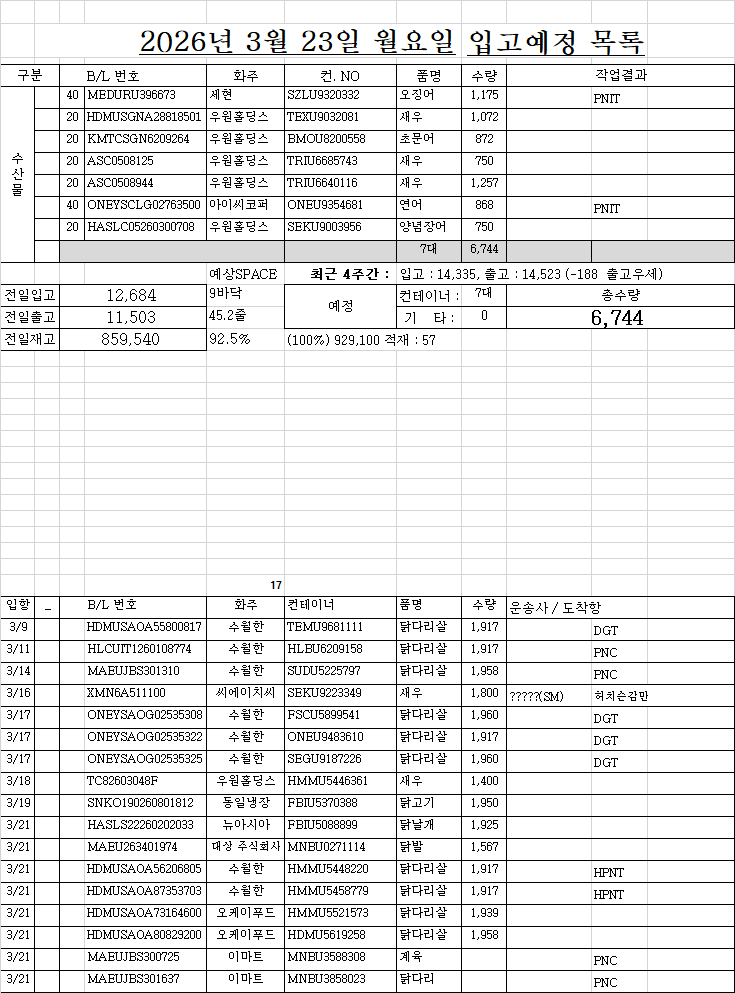
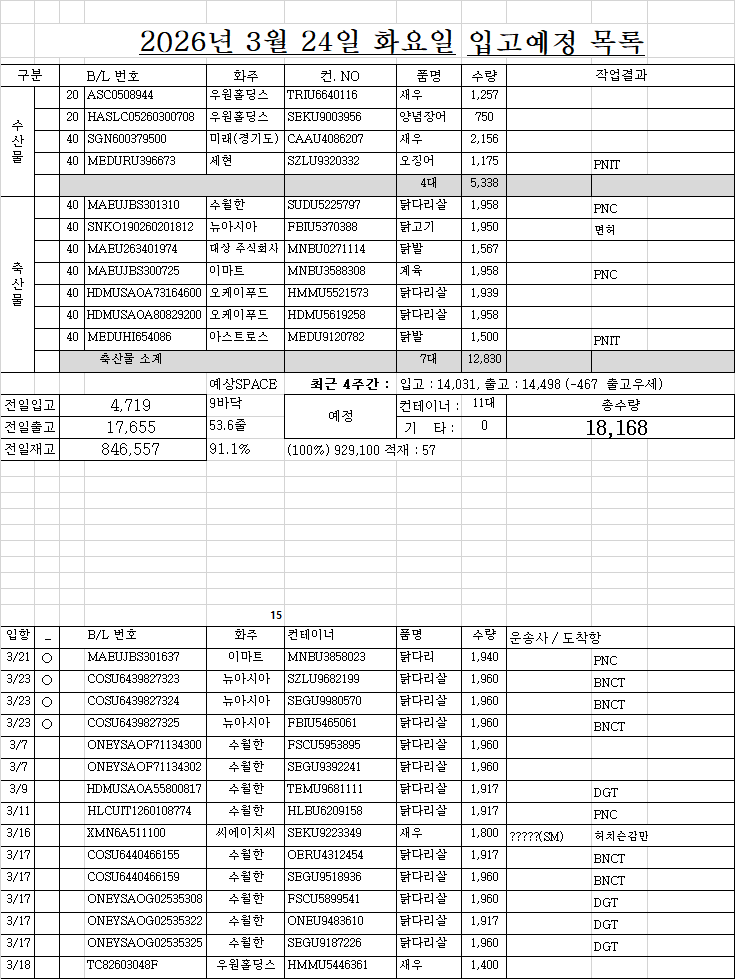
SDFSDF

Changed region(s): [[0.0, 0.0306, 1.0, 0.5209], [0.0, 0.5516, 1.0, 1.0], [0.0, 0.1532, 0.0299, 0.2145]]

diff --git a/list.html b/list.html
@@ -160,45 +160,45 @@
 </div>
 <!-- ★★★★★★ 따로 빼 놔야한다. 복붙하면 첫칸 비어도 되는데, 여기서는 첫칸비우면 당겨진다. -->
 <!-- ★ 엑셀범위를 브라우저 textarea에 붙여넣으면 첫셀 비어도 제대로 되는데... HTML에 붙여놓은 자료는 처음셀이 비어있으면 당겨짐 -->
-<div class="d-none" id="원본text_리스트1부터w요약열까지">작성	면허	B/LNO.	화주	컨테이너NO.	품명	수량	반입NO.	입항일	구분	도착일	도착시간	구분	운.도VBA	03/20 금 16:21	화찰BL	화찰 선명	화물관리번호	화찰수량	화찰중량	화찰입항	리스트시트기준열	
-1		MEDURU396673	세현	SZLU9320332	오징어	1,175 	PNIT	3/19	1				PNIT			ONE SERENITY					03/20 금 16:21	
-1	○	HDMUSGNA28818501	우원홀딩스	TEXU9032081	새우	1,072 		3/19	1			20 			HDMUSGNA28818501	HMM HERITAGE	26HDMUA156I-0144-	1,072 	6,217.60 	2026.03.19	조회정보	3줄
-1	○	KMTCSGN6209264	우원홀딩스	BMOU8200558	초문어	872 		3/19	1			20 			KMTCSGN6209264	NYK ISABEL	26ONEY0313I-7121-	872 	6,947.96 	2026.03.19	적재	57
-1		ASC0508125	우원홀딩스	TRIU6685743	새우	750 		3/20	1			20 									4,617 	3줄
-1		ASC0508944	우원홀딩스	TRIU6640116	새우	1,257 		3/20	1			20 									6,156 	4줄
-1	○	ONEYSCLG02763500	아이씨코퍼	ONEU9354681	연어	868 	PNIT	3/21	1				PNIT		ONEYSCLG02763500	MANZANILLO EXPRESS	26HLCU9310I-5013-	868 	23,568.77 	2026.03.21	7,695 	5줄
-1		HASLC05260300708	우원홀딩스	SEKU9003956	양념장어	750 		3/22	1			20 									9,234 	6줄
-		HDMUSAOA55800817	수월한	TEMU9681111	닭다리살	1,917 	DGT	3/9	2				DGT	면허?, CY : 동원글로벌터미널부산(주), 컨진행 : 반입완료, 선사 : 오션네트워크익스프레스코리아(주)	HDMUSAOA55800817	REN JIAN 20	26ONEY0299I-7028-	1,917 	23,962.50 	2026.03.09	구분	대수
-		HLCUIT1260108774	수월한	HLBU6209158	닭다리살	1,917 	PNC	3/11	2				PNC	면허?, CY : 부산신항만(주)자유무역지역, 컨진행 : 반입완료, 선사 : 한국머스크(주)	HLCUIT1260108774	UTE	26MAEU0149I-7020-	1,917 	23,962.50 	2026.03.11	출고/입고 4주간	19
-		MAEUJBS301310	수월한	SUDU5225797	닭다리살	1,958 	PNC	3/14	2				PNC	면허?, CY : 부산신항만(주)자유무역지역, 컨진행 : 반입완료, 선사 : 한국머스크(주)	MAEUJBS301310	REN JIAN 15	26MAEU0158I-1251-	1,958 	24,450.72 	2026.03.14	1일 7/5	5일줄
-		XMN6A511100	씨에이치씨	SEKU9223349	새우	1,800 	?????(SM).허치슨감만	3/16	1	SM			?????(SM).허치슨감만			PEGASUS DREAM					14,855 	48.3
-		ONEYSAOG02535308	수월한	FSCU5899541	닭다리살	1,960 	DGT	3/17	2				DGT	면허?, CY : 동원글로벌터미널부산(주), 컨진행 : 반입완료, 선사 : 오션네트워크익스프레스코리아(주)	ONEYSAOG02535308	MOL EARNEST	26ONEY0337I-5114-	1,960 	24,500.00 	2026.03.17	14,476 	47
-		ONEYSAOG02535322	수월한	ONEU9483610	닭다리살	1,917 	DGT	3/17	2				DGT	면허?, CY : 동원글로벌터미널부산(주), 컨진행 : 반입완료, 선사 : 오션네트워크익스프레스코리아(주)	ONEYSAOG02535322	MOL EARNEST	26ONEY0337I-5128-	1,917 	23,962.50 	2026.03.17	내국제외	
-		ONEYSAOG02535325	수월한	SEGU9187226	닭다리살	1,960 	DGT	3/17	2				DGT	면허?, CY : 동원글로벌터미널부산(주), 컨진행 : 반입완료, 선사 : 오션네트워크익스프레스코리아(주)	ONEYSAOG02535325	MOL EARNEST	26ONEY0337I-5131-	1,960 	24,500.00 	2026.03.17	구분	대수
-		TC82603048F	우원홀딩스	HMMU5446361	새우	1,400 		3/18	1			40 									수산	31
-		SNKO190260801812	동일냉장	FBIU5370388	닭고기	1,950 		3/19	2												축산	2/11
-		HASLS22260202033	뉴아시아	FBIU5088899	닭날개	1,925 		3/21	2												합계	73 
-		MAEU263401974	대상 주식회사	MNBU0271114	닭발	1,567 		3/21	2												7,695 	5줄
-		HDMUSAOA56206805	수월한	HMMU5448220	닭다리살	1,917 	HPNT	3/21	2				HPNT			HMM CLOVER					화주별 요약	
-		HDMUSAOA87353703	수월한	HMMU5458779	닭다리살	1,917 	HPNT	3/21	2				HPNT			HMM CLOVER					화주	대수
-		HDMUSAOA73164600	오케이푸드	HMMU5521573	닭다리살	1,939 		3/21	2												수월한	17
-		HDMUSAOA80829200	오케이푸드	HDMU5619258	닭다리살	1,958 		3/21	2												세현	9
-		MAEUJBS300725	이마트	MNBU3588308	계육		PNC	3/21	2				PNC			GRASMERE MAERSK					우원홀딩스	8
-		MAEUJBS301637	이마트	MNBU3858023	닭다리		PNC	3/21	2				PNC			GRASMERE MAERSK					삼영수산	8
-		MEDUHI654086	아스트로스	MEDU9120782	닭발	1,500 	PNIT	3/22	2				PNIT			SANTA LORETTA					이마트	7
-		HDMUSAOA60395300	이마트	HMMU5486282	닭다리		DGT	3/22	2				DGT			HYUNDAI INTEGRAL(SX2)					뉴아시아	6
-		HDMUSAOA62547000	이마트	HMMU5515020	닭다리		DGT	3/22	2				DGT			HYUNDAI INTEGRAL(SX2)					아스트로스	5
-		COSU6439827323	뉴아시아	SZLU9682199	닭다리살	1,960 	BNCT	3/23	2				BNCT			COSCO PRIDE					씨케이글로벌	4
-		COSU6439827324	뉴아시아	SEGU9980570	닭다리살	1,960 	BNCT	3/23	2				BNCT			COSCO PRIDE					오케이푸드	2
-		COSU6439827325	뉴아시아	FBIU5465061	닭다리살	1,960 	BNCT	3/23	2				BNCT			COSCO PRIDE					마이푸드	2
-		COSU6439835643	마이푸드	FBIU5015151	닭다리살	1,960 	BNCT	3/23	2				BNCT			COSCO PRIDE					아이씨코퍼	1
-		COSU6439835646	마이푸드	OERU4289713	닭다리살	1,960 	BNCT	3/23	2				BNCT			COSCO PRIDE					씨에이치씨	1
-		COSU6439835640	수월한	TEMU9356220	닭다리살	1,960 	BNCT	3/23	2				BNCT			COSCO PRIDE					동일냉장	1
-		COSU6440466155	수월한	OERU4312454	닭다리살	1,917 	BNCT	3/23	2				BNCT			COSCO PRIDE					대상 주식회사	1
-		COSU6440466159	수월한	SEGU9518936	닭다리살	1,960 	BNCT	3/23	2				BNCT			COSCO PRIDE					참트레이딩	1
-		COSU6442191940	수월한	FBIU5509771	닭다리살	1,960 	BNCT	3/23	2				BNCT			COSCO PRIDE					합계	73
-		KMTCSUB2471360	씨케이글로벌	BMOU9233556	새우	1,800 		3/23	1													
-		KMTCSUB2472378	씨케이글로벌	SEGU9327441	새우	1,800 		3/23	1													
+<div class="d-none" id="원본text_리스트1부터w요약열까지">작성	면허	B/LNO.	화주	컨테이너NO.	품명	수량	반입NO.	입항일	구분	도착일	도착시간	구분	운.도VBA	03/23 월 16:34	화찰BL	화찰 선명	화물관리번호	화찰수량	화찰중량	화찰입항	리스트시트기준열	
+1	○	ASC0508944	우원홀딩스	TRIU6640116	새우	1,257 		3/21	1			20 		(주)에스에스물류, CY : 동원글로벌터미널부산(주), 컨진행 : 보세운송 신고 수리, 선사 : 피아이엘코리아(주)	ASC0508944	KOTA NASRAT	26PILK0017I-2840-	1,257 	5,912.40 	2026.03.21	03/23 월 16:34	
+1		HASLC05260300708	우원홀딩스	SEKU9003956	양념장어	750 		3/22	1			20 		면허?, CY : 신감만 한국허치슨(주) 컨테이너 보세창고, 컨진행 : 반입완료, 선사 : 천경해운(주)	HASLC05260300708	SKY ORION	26CKCO0310I-1007-	750 	8,110.00 	2026.03.22	조회정보	3줄
+1		SGN600379500	미래(경기도)	CAAU4086207	새우	2,156 		3/23	1					면허?, CY : 신선대감만터미널(주) 신선대CY, 컨진행 : 하선신고 수리완료, 선사 : 피아이엘코리아(주)	SGN600379500	KOTA GAYA	26PILK0019I-0036-	2,156 	16,816.80 	2026.03.23	적재	57
+1		MEDURU396673	세현	SZLU9320332	오징어	1,175 	PNIT	3/23	1				PNIT	면허?, CY : 부산신항국제터미널(주), 컨진행 : 입항적재화물목록 운항정보 정정, 선사 : 오션네트워크익스프레스코리아(주)	MEDURU396673	ONE SERENITY	26ONEY0351I-6011-	1,175 	24,790.00 	2026.03.23	4,617 	3줄
+1	○	MAEUJBS301310	수월한	SUDU5225797	닭다리살	1,958 	PNC	3/14	2				PNC	면허?, CY : 부산신항만(주)자유무역지역, 컨진행 : 반입완료, 선사 : 한국머스크(주)	MAEUJBS301310	REN JIAN 15	26MAEU0158I-1251-	1,958 	24,450.72 	2026.03.14	6,156 	4줄
+1	○	SNKO190260201812	동일냉장	FBIU5370388	닭고기	1,950 	면허	3/20	2						SNKO190260201812	KMTC TAIPEIS	26KMTC0959I-6043-	1,950 	24,560.25 	2026.03.20	7,695 	5줄
+1	○	MAEU263401974	대상 주식회사	MNBU0271114	닭발	1,567 		3/21	2	3/23	07:28			(주)골든로지텍, CY : 부산신항만(주)자유무역지역, 컨진행 : 반출완료, 선사 : 한국머스크(주)	MAEU263401974	GRASMERE MAERSK	26MAEU0173I-1048-	1,567 	24,304.17 	2026.03.21	9,234 	6줄
+1	○	MAEUJBS300725	이마트	MNBU3588308	계육	1,958 	PNC	3/21	2				PNC	면허?, CY : 부산신항만(주)자유무역지역, 컨진행 : 반입완료, 선사 : 한국머스크(주)	MAEUJBS300725	GRASMERE MAERSK	26MAEU0173I-1261-	1,958 	24,450.76 	2026.03.21	구분	대수
+1	○	HDMUSAOA73164600	오케이푸드	HMMU5521573	닭다리살	1,939 		3/22	2	3/23	12:38			(주)민성로직스, CY : 에이치엠엠피에스에이신항만(주), 컨진행 : 반출완료, 선사 : 에이치엠엠(주)	HDMUSAOA73164600	HMM CLOVER	26HDMUA133I-0070-	1,939 	24,249.13 	2026.03.21	출고/입고 4주간	19
+1	○	HDMUSAOA80829200	오케이푸드	HDMU5619258	닭다리살	1,958 		3/22	2					(주)민성로직스, CY : 에이치엠엠피에스에이신항만(주), 컨진행 : 반입완료, 선사 : 에이치엠엠(주)	HDMUSAOA80829200	HMM CLOVER	26HDMUA133I-0071-	1,958 	24,486.73 	2026.03.21	1일 7/5	5일줄
+1	○	MEDUHI654086	아스트로스	MEDU9120782	닭발	1,500 	PNIT	3/23	2				PNIT	면허?, CY : 부산신항국제터미널(주), 컨진행 : 입항적재화물목록 운항정보 정정, 선사 : 엠에스씨코리아(주)	MEDUHI654086	SANTA LORETTA	26MSCU2071I-0013-	1,500 	23,602.50 	2026.03.23	14,190 	46.1
+2	○	MAEUJBS301637	이마트	MNBU3858023	닭다리	1,940 	PNC	3/21	2				PNC	면허?, CY : 부산신항만(주)자유무역지역, 컨진행 : 반입완료, 선사 : 한국머스크(주)	MAEUJBS301637	GRASMERE MAERSK	26MAEU0173I-1272-	1,940 	24,225.93 	2026.03.21	13,936 	45.3
+2	○	COSU6439827323	뉴아시아	SZLU9682199	닭다리살	1,960 	BNCT	3/23	2				BNCT	면허?, CY : (주)비엔씨티(CY), 컨진행 : 하선신고 수리완료, 선사 : 코스코쉬핑라인스 한국 주식회사	COSU6439827323	COSCO PRIDE	26COSU0023I-3012-	1,960 	24,500.00 	2026.03.23	내국제외	
+2	○	COSU6439827324	뉴아시아	SEGU9980570	닭다리살	1,960 	BNCT	3/23	2				BNCT	면허?, CY : (주)비엔씨티(CY), 컨진행 : 하선신고 수리완료, 선사 : 코스코쉬핑라인스 한국 주식회사	COSU6439827324	COSCO PRIDE	26COSU0023I-3030-	1,960 	24,500.00 	2026.03.23	구분	대수
+2	○	COSU6439827325	뉴아시아	FBIU5465061	닭다리살	1,960 	BNCT	3/23	2				BNCT	면허?, CY : (주)비엔씨티(CY), 컨진행 : 하선신고 수리완료, 선사 : 코스코쉬핑라인스 한국 주식회사	COSU6439827325	COSCO PRIDE	26COSU0023I-3019-	1,960 	24,500.00 	2026.03.23	수산	29
+		ONEYSAOF71134300	수월한	FSCU5953895	닭다리살	1,960 		3/7	2					면허?, CY : 한진부산컨테이너터미널(주), 컨진행 : 반입완료, 선사 : 오션네트워크익스프레스코리아(주)	ONEYSAOF71134300	ONE MODERN	26ONEY0289I-5026-	1,960 	24,500.00 	2026.03.07	축산	2/12
+		ONEYSAOF71134302	수월한	SEGU9392241	닭다리살	1,960 		3/7	2					면허?, CY : 한진부산컨테이너터미널(주), 컨진행 : 반입완료, 선사 : 오션네트워크익스프레스코리아(주)	ONEYSAOF71134302	ONE MODERN	26ONEY0289I-5028-	1,960 	24,500.00 	2026.03.07	합계	72 
+		HDMUSAOA55800817	수월한	TEMU9681111	닭다리살	1,917 	DGT	3/9	2				DGT	면허?, CY : 동원글로벌터미널부산(주), 컨진행 : 반입완료, 선사 : 오션네트워크익스프레스코리아(주)	HDMUSAOA55800817	REN JIAN 20	26ONEY0299I-7028-	1,917 	23,962.50 	2026.03.09	7,695 	5줄
+		HLCUIT1260108774	수월한	HLBU6209158	닭다리살	1,917 	PNC	3/11	2				PNC	면허?, CY : 부산신항만(주)자유무역지역, 컨진행 : 반입완료, 선사 : 한국머스크(주)	HLCUIT1260108774	UTE	26MAEU0149I-7020-	1,917 	23,962.50 	2026.03.11	화주별 요약	
+		XMN6A511100	씨에이치씨	SEKU9223349	새우	1,800 	?????(SM).허치슨감만	3/16	1	SM			?????(SM).허치슨감만			PEGASUS DREAM					화주	대수
+		COSU6440466155	수월한	OERU4312454	닭다리살	1,917 	BNCT	3/17	2				BNCT	면허?, CY : 동원글로벌터미널부산(주), 컨진행 : 반입완료, 선사 : 코스코쉬핑한국(주)	COSU6440466155	QI YUN HE	26COHEY530I-9041-	1,917 	23,962.50 	2026.03.17	수월한	17
+		COSU6440466159	수월한	SEGU9518936	닭다리살	1,960 	BNCT	3/17	2				BNCT	면허?, CY : 동원글로벌터미널부산(주), 컨진행 : 반입완료, 선사 : 코스코쉬핑한국(주)	COSU6440466159	QI YUN HE	26COHEY530I-9017-	1,960 	24,500.00 	2026.03.17	세현	9
+		ONEYSAOG02535308	수월한	FSCU5899541	닭다리살	1,960 	DGT	3/17	2				DGT	면허?, CY : 동원글로벌터미널부산(주), 컨진행 : 반입완료, 선사 : 오션네트워크익스프레스코리아(주)	ONEYSAOG02535308	MOL EARNEST	26ONEY0337I-5114-	1,960 	24,500.00 	2026.03.17	삼영수산	8
+		ONEYSAOG02535322	수월한	ONEU9483610	닭다리살	1,917 	DGT	3/17	2				DGT	면허?, CY : 동원글로벌터미널부산(주), 컨진행 : 반입완료, 선사 : 오션네트워크익스프레스코리아(주)	ONEYSAOG02535322	MOL EARNEST	26ONEY0337I-5128-	1,917 	23,962.50 	2026.03.17	이마트	7
+		ONEYSAOG02535325	수월한	SEGU9187226	닭다리살	1,960 	DGT	3/17	2				DGT	면허?, CY : 동원글로벌터미널부산(주), 컨진행 : 반입완료, 선사 : 오션네트워크익스프레스코리아(주)	ONEYSAOG02535325	MOL EARNEST	26ONEY0337I-5131-	1,960 	24,500.00 	2026.03.17	아스트로스	6
+		TC82603048F	우원홀딩스	HMMU5446361	새우	1,400 		3/18	1			40 									뉴아시아	6
+		HASLS22260202033	뉴아시아	FBIU5088899	닭날개	1,925 		3/21	2					면허?, CY : 신선대감만터미널(주) 신선대CY, 컨진행 : 반입완료, 선사 : 장금상선(주)	HASLS22260202033	SAWASDEE INCHEON	26SNKO1087I-2079-	1,925 	24,640.00 	2026.03.21	우원홀딩스	5
+		HDMUSAOA56206805	수월한	HMMU5448220	닭다리살	1,917 	HPNT	3/22	2				HPNT	면허?, CY : 에이치엠엠피에스에이신항만(주), 컨진행 : 반입완료, 선사 : 에이치엠엠(주)	HDMUSAOA56206805	HMM CLOVER	26HDMUA133I-0060-	1,917 	23,962.50 	2026.03.22	씨케이글로벌	4
+		HDMUSAOA87353703	수월한	HMMU5458779	닭다리살	1,917 	HPNT	3/22	2				HPNT	면허?, CY : 에이치엠엠피에스에이신항만(주), 컨진행 : 반입완료, 선사 : 에이치엠엠(주)	HDMUSAOA87353703	HMM CLOVER	26HDMUA133I-0061-	1,917 	23,962.50 	2026.03.22	오케이푸드	2
+		COSU6439835643	마이푸드	OERU4352478	닭다리살	1,960 	BNCT	3/23	2				BNCT	면허?, CY : (주)비엔씨티(CY), 컨진행 : 하선신고 수리완료, 선사 : 코스코쉬핑라인스 한국 주식회사	COSU6439835643	COSCO PRIDE	26COSU0023I-3080-	1,960 	24,500.00 	2026.03.23	마이푸드	2
+		COSU6439835646	마이푸드	OERU4289713	닭다리살	1,960 	BNCT	3/23	2				BNCT	면허?, CY : (주)비엔씨티(CY), 컨진행 : 하선신고 수리완료, 선사 : 코스코쉬핑라인스 한국 주식회사	COSU6439835646	COSCO PRIDE	26COSU0023I-3044-	1,960 	24,500.00 	2026.03.23	미래(경기도)	1
+		COSU6439835640	수월한	TEMU9356220	닭다리살	1,960 	BNCT	3/23	2				BNCT	면허?, CY : (주)비엔씨티(CY), 컨진행 : 하선신고 수리완료, 선사 : 코스코쉬핑라인스 한국 주식회사	COSU6439835640	COSCO PRIDE	26COSU0023I-3055-	1,960 	24,500.00 	2026.03.23	동일냉장	1
+		COSU6442191940	수월한	FBIU5509771	닭다리살	1,960 	BNCT	3/23	2				BNCT	면허?, CY : (주)비엔씨티(CY), 컨진행 : 하선신고 수리완료, 선사 : 코스코쉬핑라인스 한국 주식회사	COSU6442191940	COSCO PRIDE	26COSU0023I-3021-	1,960 	24,500.00 	2026.03.23	대상 주식회사	1
+		KMTCSUB2471360	씨케이글로벌	BMOU9233556	새우	1,800 		3/23	1												씨에이치씨	1
+		KMTCSUB2472378	씨케이글로벌	SEGU9327441	새우	1,800 		3/23	1												참트레이딩	1
+		MEDUHI654060	아스트로스	SZLU9202200	닭발	1,500 		3/23	2												MK프라이드	1
+		HDMUSAOA60395300	이마트	HMMU5486282	닭다리	1,958 	DGT	3/23	2				DGT	면허?, CY : 동원글로벌터미널부산(주), 컨진행 : 하선신고 수리완료, 선사 : 에이치엠엠(주)	HDMUSAOA60395300	HYUNDAI INTEGRAL	26HDMUA140I-7043-	1,958 	24,450.70 	2026.03.23	합계	72
+		HDMUSAOA62547000	이마트	HMMU5515020	닭다리	1,958 	DGT	3/23	2				DGT	면허?, CY : 동원글로벌터미널부산(주), 컨진행 : 하선신고 수리완료, 선사 : 에이치엠엠(주)	HDMUSAOA62547000	HYUNDAI INTEGRAL	26HDMUA140I-7044-	1,958 	24,450.69 	2026.03.23		
 		300610005700	우원홀딩스	SZLU2076266	새우	1,245 		3/24	1			20 										
 		SMLMBKKGA1018500	우원홀딩스	FBIU7512440	갑오징어	1,600 		3/24	1			20 										
 		SNKO190260300265	뉴아시아	FBIU5373875	닭날개	1,950 		3/25	2													
@@ -227,8 +227,7 @@
 		LMM0576989	삼영수산	SZLU5081918	오징어	1,100 		4/18	1													
 		LMM0578990	삼영수산	TEMU9420669	오징어	1,100 		4/18	1													
 		LMM0578990	삼영수산	CGMU9399722	오징어	1,100 		4/18	1													
-		ONEYSAOF71134300	수월한	FSCU5953895	닭다리살	1,960 			2													
-		ONEYSAOF71134302	수월한	SEGU9392241	닭다리살	1,960 			2													
+		SNKO24260300842	MK프라이드	SKRU1600750	가자미	870 			1			20 										
 		MEDUR3041635	이마트	TTNU8350929	닭다리			미정	2							MSC AINO						
 		MEDUWE038221	이마트	TTNU8089081	닭다리			미정	2							MSC AINO						
 		MEDUFX960938	수월한	MEDU9109741	닭다리살	1,917 	???		2				천일정기화물.PNIT			MSC BREMERHAVEN V						
